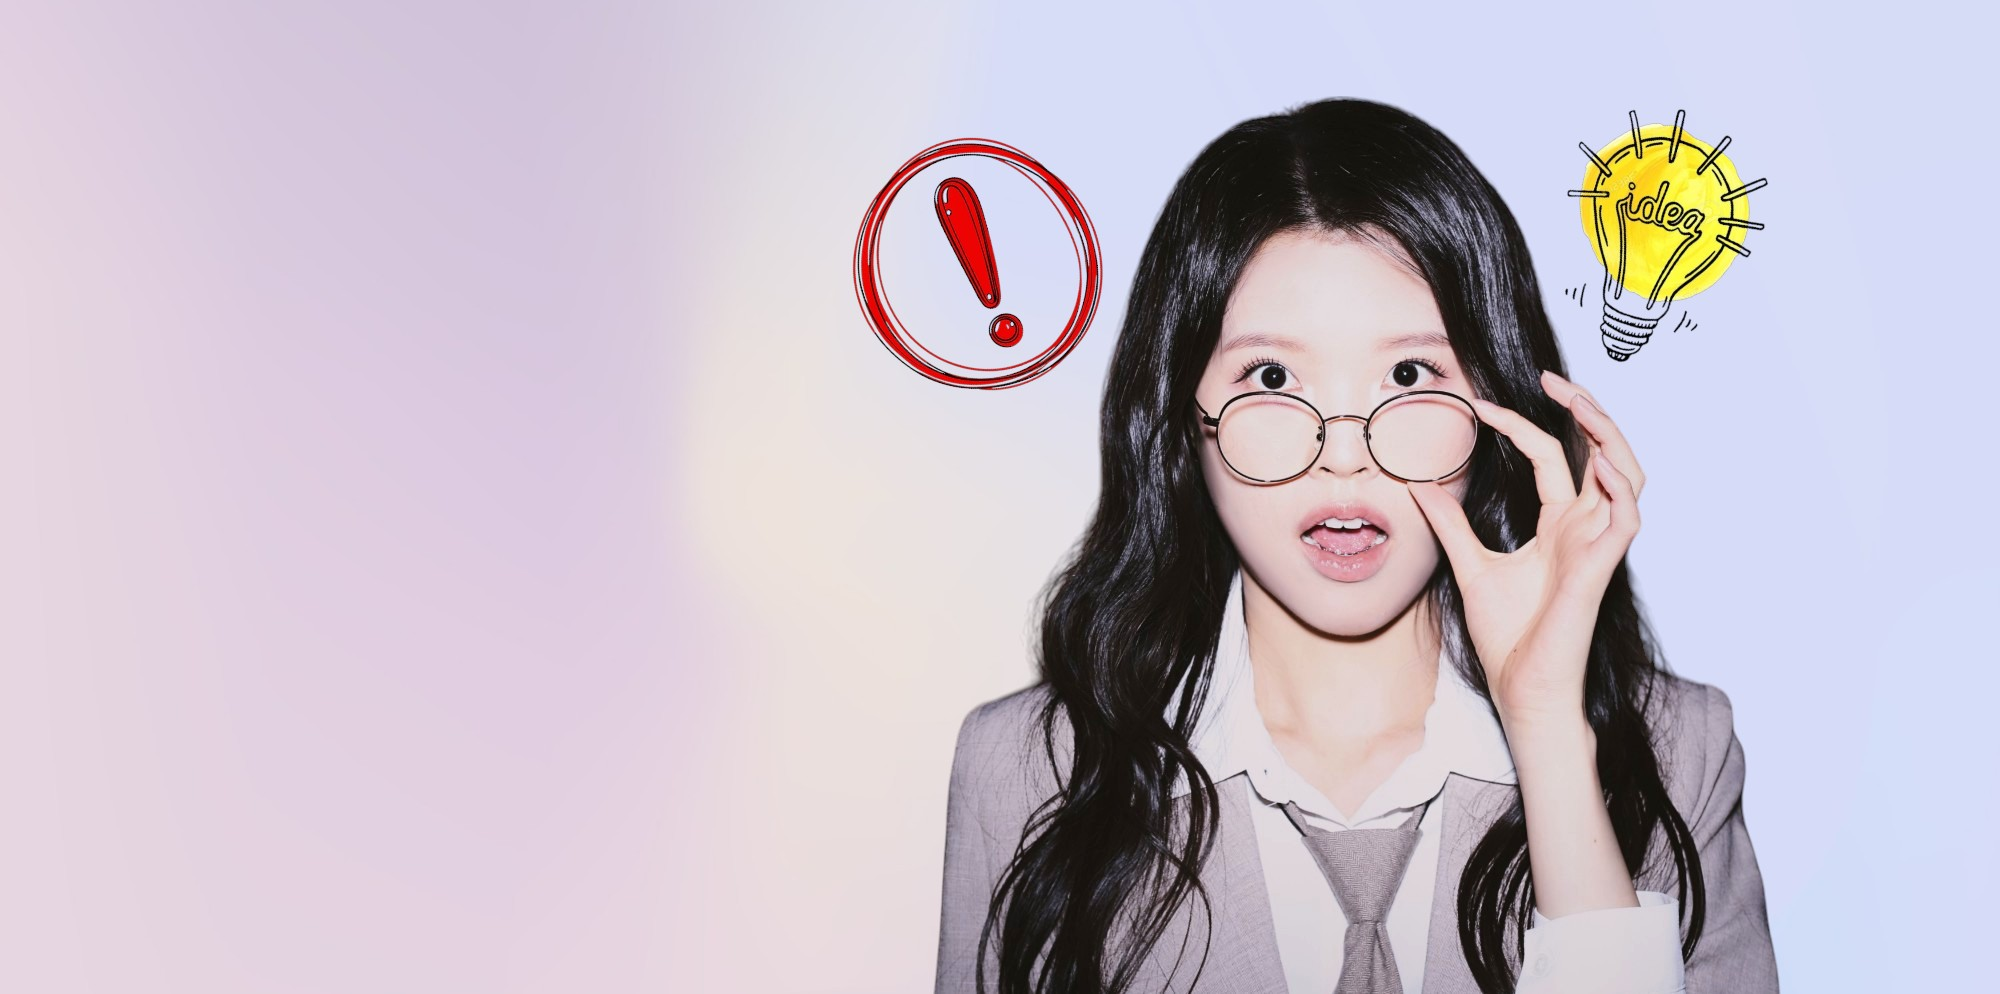
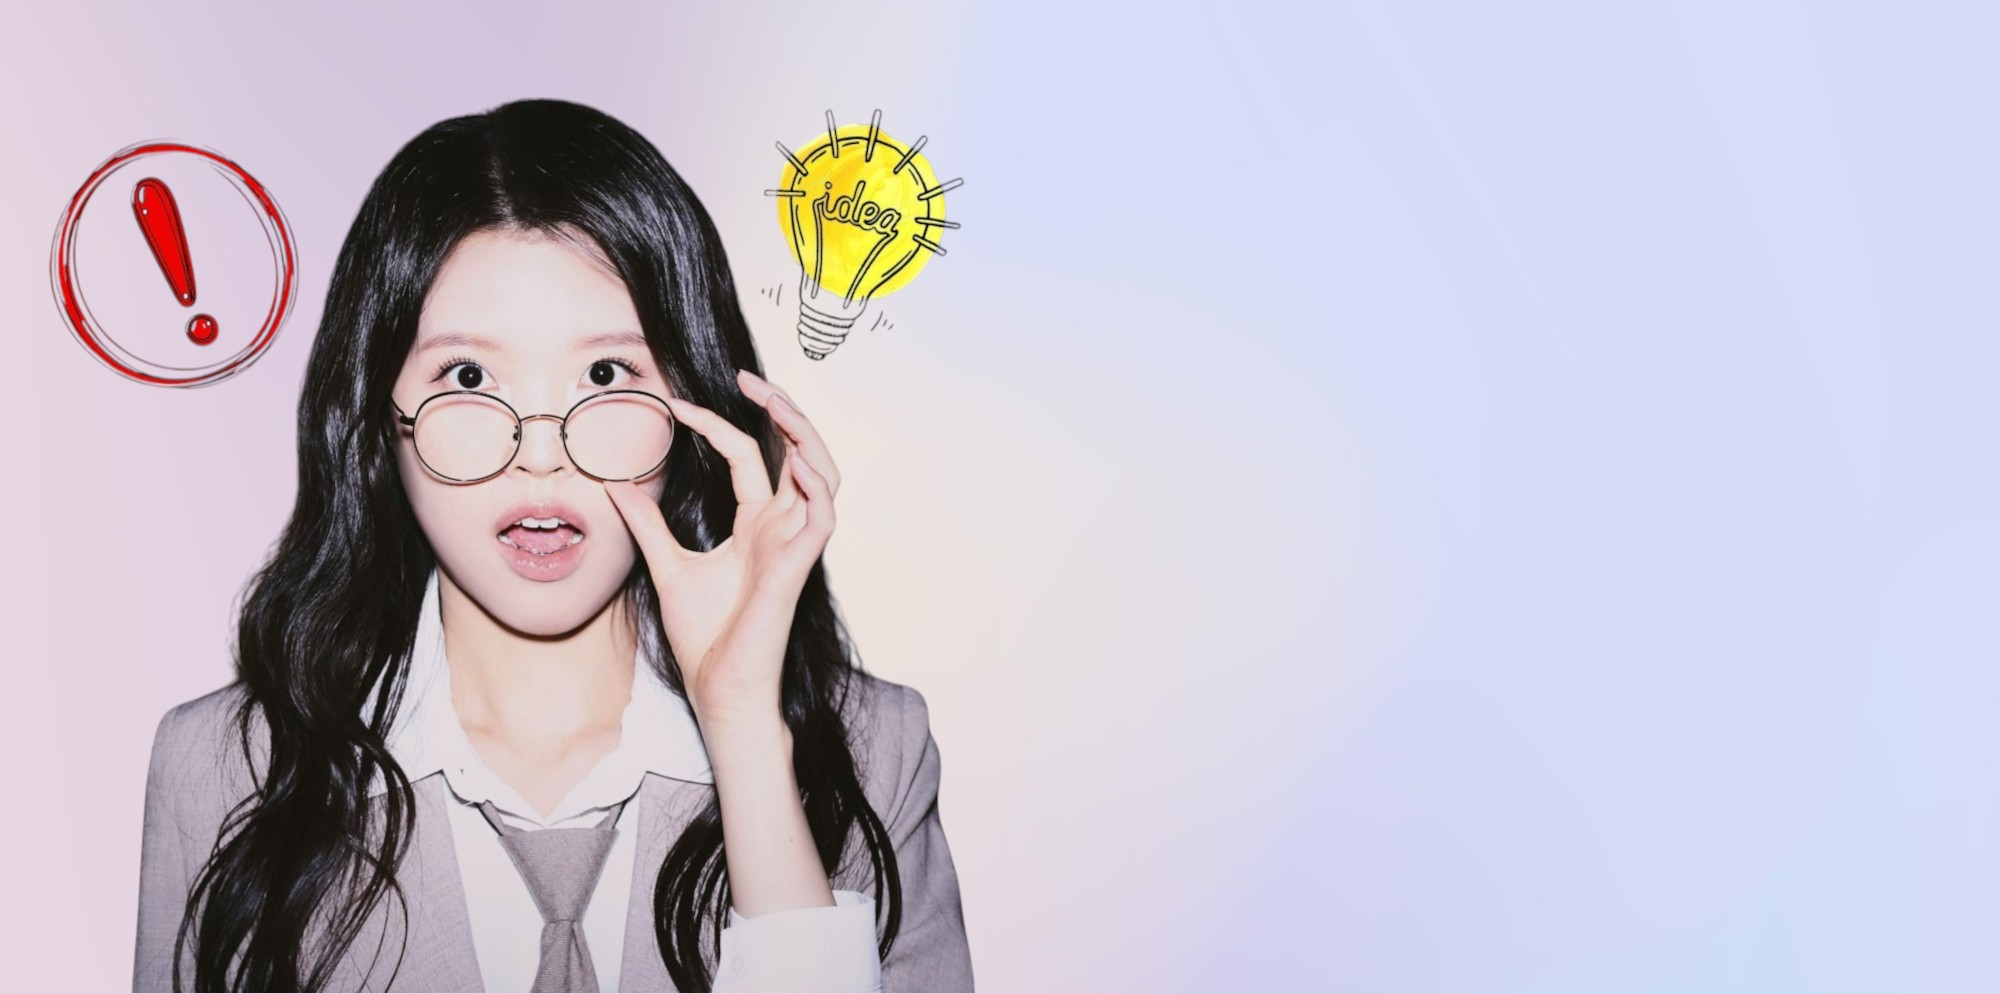
feat: style change for portfolio and change contents

diff --git a/index.html b/index.html
@@ -16,9 +16,9 @@
 				<nav>
 					<ul>
 						<li><a href="#intro">Intro</a></li>
+						<li><a href="#three">Who I Am</a></li>
 						<li><a href="#one">What Drives Me</a></li>
 						<li><a href="#two">That Aha Moment</a></li>
-						<li><a href="#three">Who I Am</a></li>
 						<li><a href="#work">My Work</a></li>
 						<li><a href="#contact">Contact</a></li>
 					</ul>
@@ -33,42 +33,11 @@
 					</header>
 					<h2 class="intro-subtitle"><span class="text-slider-items">Software Engineer,Full-Stack Developer,Front-End Developer,Back-End Developer,Web Designer</span><strong class="text-slider"></strong></h2>
 					<footer>
-						<a href="#one" class="button style2 down">More</a>
+						<a href="#three" class="button style2 down">More</a>
 					</footer>
 				</div>
 			</section>
-
-		<!-- One -->
-			<section id="one" class="main style2 right dark fullscreen">
-				<div class="content box style2">
-					<header>
-						<h2>What Drives Me</h2>
-					</header>
-					<p>As a developer, I face all kinds of challenges. Bugs, messy code, and features that break for no reason. <br/>
-						I'm not gonna lie, there have been moments when I’ve wanted to throw my laptop out the window and disappear to a remote island.
-						<br/><br/>But here's the thing. <strong>I always come back</strong>. <br/><br/>
-						Because underneath the frustration and endless debugging lies something that excites me every single day:<strong> the ability to build</strong>.
-						<br/>I became a developer because I was amazed that a few lines of code could bring an idea to life. That you could wake up with a concept and have a working prototype by night.
-
-That magic <strong>"turning thoughts into tools, ideas into interfaces"</strong> is what pulled me in. And it's what keeps me here.
-					</p>
-				</div>
-				<a href="#two" class="button style2 down anchored">Next</a>
-			</section>
-
-		<!-- Two -->
-			<section id="two" class="main style2 left dark fullscreen">
-				<div class="content box style2">
-					<header>
-						<h2>"That One Line of Code That Took Three Hours"</h2>
-					</header>
-					<p>So yes, even when I spend three hours chasing down a single broken line of code - I keep going. 
-						<br/>There’s nothing like that moment when everything finally clicks, the app runs flawlessly, and I whisper to myself, "I am a genius” right before realizing... it was a missing function call all along. 😅<br/>
-						<br/>I don’t code just to fix bugs.<br/> I do it <strong>because I love chasing that “aha” moment</strong>. <br/><br/>I thrive on learning, experimenting, and constantly figuring out how to make systems better. Not just for myself, but for the people who use them. It’s rarely easy. But <strong>it’s always worth it</strong>.</p>
-				</div>
-				<a href="#three" class="button style2 down anchored">Next</a>
-			</section>
-
+			<!-- Three -->
 			<section id="three" class="main style2 right dark fullscreen">
 				<div class="video-wrapper">
 					<video autoplay muted loop class="bg-video">
@@ -79,11 +48,41 @@ That magic <strong>"turning thoughts into tools, ideas into interfaces"</strong>
 					<header>
 						<h2>Who I Am</h2>
 					</header>
-						 I’m a <strong>self-taught software engineer</strong>,
-							<br/><strong>1.</strong> who <strong>sketches how things fit</strong> (sometimes on paper, sometimes in my head), then dive in - untangling logic knots and making things click.
-							<br/><strong>2.</strong> who <strong>always learns</strong> - chasing bugs, chasing better solutions.
-							<br/><strong>3.</strong> who <strong>loves working with others</strong> - ideas grow better when shared, and every project is a chance to learn, laugh, and build something meaningful. 
-							<hr/>To me, great software is about <strong>turning messy, real-world problems into smooth, delightful experiences</strong>.
+						 I am Dahee Kim, <strong>a self-taught software engineer</strong>, capable of full-stack development and web design.				
+						 <br/><br/>I'm somone who:
+						  <br/><strong>1.</strong><strong> Plans out how things fit together</strong>, then dives straight in making them functional.
+							<br/><strong>2.</strong><strong> Always learns</strong> by chasing bugs and better solutions.
+							<br/><strong>3.</strong><strong> Loves working with others</strong>. Every project is a chance to learn, laugh and build something meaningful together! 😄
+							<br/><br/><hr/><br/>To me, great software is about <strong>transforming complex, real-world problems into smooth, enjoyable experiences</strong>, and I love being a part of that.
+				</div>
+				<a href="#one" class="button style2 down anchored">Next</a>
+			</section>
+		<!-- One -->
+			<section id="one" class="main style2 left dark fullscreen">
+				<div class="content box style2">
+					<header>
+						<h2>What Drives Me</h2>
+					</header>
+					<p>As a developer, I face all kinds of challenges: bugs, unexplained broken functionality, and messy and undocumented code.<br/>
+						I won't lie, there have been moments when I wanted to throw my laptop out of the window.
+						<br/><br/>But here's the thing. <strong>I always come back</strong>. <br/><br/>
+						Because underneath the frustration and endless debugging lies something that motivates me every day:<strong> the ability to create</strong>.
+						<br/>I became a developer because I was amazed that a few lines of code could bring ideas to life. That you could wake up with a concept and have a working prototype by night.
+						That magic <strong>"turning thoughts into tools, and ideas into interfaces"</strong> is what got me, and keeps me interested!
+					</p>
+				</div>
+				<a href="#two" class="button style2 down anchored">Next</a>
+			</section>
+
+		<!-- Two -->
+			<section id="two" class="main style2 right dark fullscreen">
+				<div class="content box style2">
+					<header>
+						<h2>"That One Line of Code That Took Three Hours"</h2>
+					</header>
+					<p>Even when I spend three hours chasing down a single broken line of code, I keep going. 
+						<br/>There’s nothing like that moment when everything finally clicks, the app runs flawlessly, and I whisper to myself, "I am a genius” right before realizing... it was a missing function call all along. 😅<br/>
+						<br/>I don’t code just to fix bugs.<br/> I do it, <strong>because I love chasing that “aha” moment</strong>. <br/><br/>I thrive on learning, experimenting, and constantly figuring out how to make systems better. Not just for myself, but for the people who use them. It’s rarely easy. <br/>But <strong>it’s always worth it</strong>.</p>
 				</div>
 				<a href="#work" class="button style2 down anchored">Next</a>
 			</section>
@@ -93,7 +92,7 @@ That magic <strong>"turning thoughts into tools, ideas into interfaces"</strong>
 				<div class="content">
 					<header>
 						<h2>My Work</h2>
-						<p>This is a showcase of full-stack and frontend web applications I built, <br/>including web applications such as <br/>a full-stack platform for global developer collaboration (Work In Progress),<br/> a tour booking system, a wedding planning tool,<br/> a movie search engine, a video sharing site and a recipe finder. <br/>Each project is either fully deployed or presented with a preview and source code.</p>
+						<p>This is a showcase of full-stack and frontend web applications I built, <br/>including web applications such as: <br/>- a full-stack platform for global developer collaboration (Currently in development)<br/>- a tour booking system<br/>- a wedding planning tool<br/>- a movie search engine<br/>- a video sharing site<br/>- a recipe finder <br/>Each project is either fully deployed or presented with a preview and source code.</p>
 					</header>
 
 					<!-- Gallery  -->
@@ -454,7 +453,7 @@ That magic <strong>"turning thoughts into tools, ideas into interfaces"</strong>
 					<header>
 						<h2>Say Hello!</h2>
 						<p>Whether you’ve got a project in mind, want to collaborate, or just feel like geeking out over code, <br/>I’d love to hear from you.
-						<br/>	Drop me a message! I'll get back to you faster than a build error on deploy. 😉</p>
+						<br/>	Drop me a message, and I'll get back to you faster than a build error on deployment. 😉</p>
 					</header>
 					<div class="box">
 						<form method="post" action="#" id="contact-form">

diff --git a/assets/css/main.css b/assets/css/main.css
@@ -677,7 +677,7 @@ input, select, textarea {
 		}
 
 		.box.style2 {
-			padding: 3.5em 2.5em 3.5em 2.5em;
+			padding: 3em 2.5em 2em 2.5em;
 		}
 
 		@media screen and (max-width: 736px) {
@@ -2190,6 +2190,7 @@ input, select, textarea {
 
 			.main.style2 .content {
 				width: 40%;
+				height: 90vh;
 			}
 
 		}
